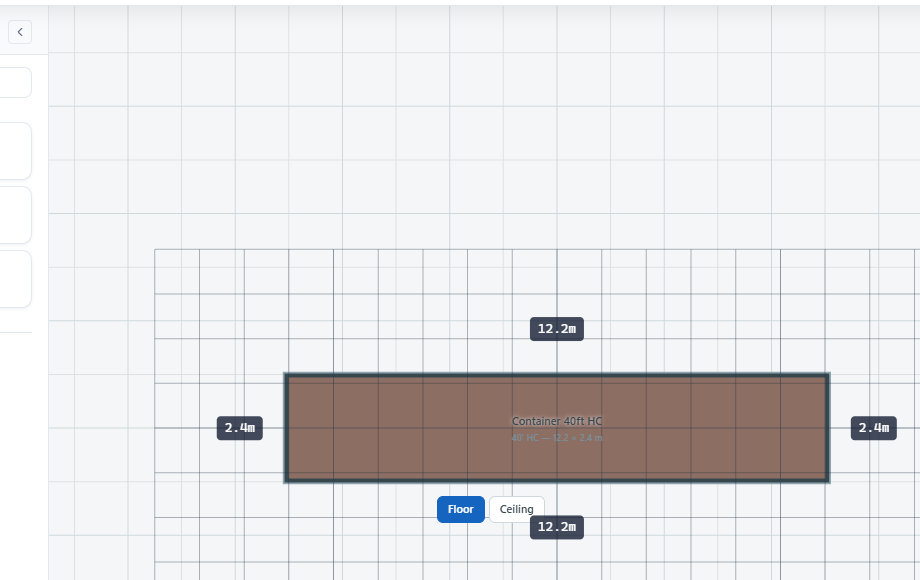
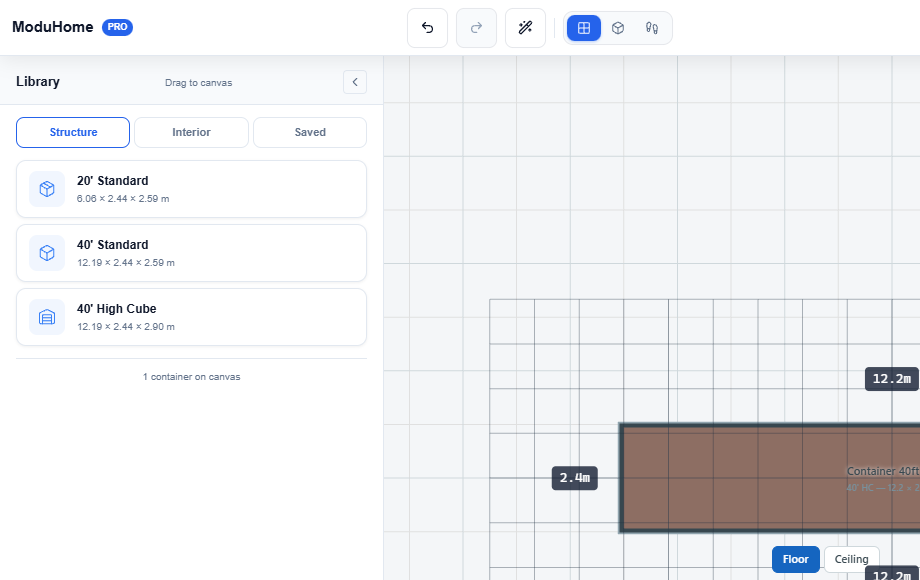
fix: frame shape geometry + door flush positioning
Frame poles/rails now render shape-aware geometry (Square, I-Beam, H-Beam,
Channel) instead of always using cylinders. Door panel widened to 92% of
wall opening with hinge flush at wall edge.

diff --git a/src/components/objects/ContainerSkin.tsx b/src/components/objects/ContainerSkin.tsx
@@ -69,7 +69,7 @@ import {
 import { getBayGroupForVoxel, getBayIndicesForVoxel } from "@/config/bayGroups";
 import { computePolePositions, computeRailPositions, type PolePosition, type RailPosition } from "@/utils/smartPoles";
 import { HIGHLIGHT_HEX_SELECT, HIGHLIGHT_HEX_HOVER, HIGHLIGHT_COLOR_SELECT, HIGHLIGHT_COLOR_HOVER } from "@/config/highlightColors";
-import { makePoleKey, resolveFrameProperty } from "@/config/frameMaterials";
+import { makePoleKey, resolveFrameProperty, type PoleShape, type RailShape } from "@/config/frameMaterials";
 import LightFixture from './LightFixture';
 import ElectricalPlate from './ElectricalPlate';
 import { formRegistry } from "@/config/formRegistry";
@@ -327,6 +327,23 @@ function getCyl(r: number, h: number): THREE.BufferGeometry {
   return _cyl.get(k)!;
 }
 
+function getPoleGeometry(r: number, h: number, shape: PoleShape): THREE.BufferGeometry {
+  switch (shape) {
+    case 'Square':   return getBox(r * 2, h, r * 2);
+    case 'I-Beam':   return getBox(r * 2.5, h, r * 1.2);
+    case 'H-Beam':   return getBox(r * 1.2, h, r * 2.5);
+    default:         return getCyl(r, h);
+  }
+}
+
+function getRailGeometry(r: number, length: number, shape: RailShape): THREE.BufferGeometry {
+  switch (shape) {
+    case 'Square':   return getBox(r * 2, length, r * 2);
+    case 'Channel':  return getBox(r * 2.5, length, r * 1.5);
+    default:         return getCyl(r, length);
+  }
+}
+
 const _edges = new Map<string, THREE.BufferGeometry>();
 function getEdges(w: number, h: number, d: number): THREE.BufferGeometry {
   const k = `${w.toFixed(3)}_${h.toFixed(3)}_${d.toFixed(3)}`;
@@ -576,8 +593,9 @@ function DoorFace({ w, h, d, isNS, isOpen, doorState, doorConfig, doorMat }: {
   doorConfig?: import('@/types/container').DoorConfig;
   doorMat?: THREE.MeshStandardMaterial;
 }) {
-  const doorW = w * 0.7;
-  const halfSpan = doorW / 2;
+  const doorW = w * 0.92;
+  const halfW = w / 2;
+  const halfDoor = doorW / 2;
 
   // Resolve config: doorConfig takes precedence, fallback to legacy doorState
   const cfg = doorConfig ?? {
@@ -590,11 +608,13 @@ function DoorFace({ w, h, d, isNS, isOpen, doorState, doorConfig, doorMat }: {
   const isSlide = cfg.type === 'slide' || cfg.state === 'open_slide';
   const shouldOpen = cfg.state === 'open_swing' || cfg.state === 'open_slide' || !!isOpen;
 
-  // Pivot: hingeEdge determines which edge the door pivots from
+  // Pivot at wall edge so the hinge is flush with the frame
   const hingeLeft = cfg.hingeEdge === 'left';
   const pivotSign = hingeLeft ? 1 : -1;
-  const pivotOffset = isNS ? halfSpan * pivotSign : 0;
-  const pivotOffsetZ = isNS ? 0 : halfSpan * pivotSign;
+  const pivotOffset = isNS ? halfW * pivotSign : 0;
+  const pivotOffsetZ = isNS ? 0 : halfW * pivotSign;
+  const panelX = isNS ? halfDoor * pivotSign : 0;
+  const panelZ = isNS ? 0 : halfDoor * pivotSign;
 
   // Swing angle: direction determines which way door opens
   const swingSign = hingeLeft ? 1 : -1;
@@ -624,21 +644,20 @@ function DoorFace({ w, h, d, isNS, isOpen, doorState, doorConfig, doorMat }: {
     <>
       {/* Frame — steel surround (fixed) */}
       <mesh geometry={isNS ? getBox(w, h, d) : getBox(d, h, w)} material={mFrame} castShadow raycast={nullRaycast} />
-      {/* Animated door panel — pivots from hinge edge (swing) or translates (slide) */}
+      {/* Animated door panel — pivots from wall edge (swing) or translates (slide) */}
       <group position={isSlide ? [0, 0, 0] : [-pivotOffset, 0, -pivotOffsetZ]}>
         <group ref={groupRef}>
           <mesh
             geometry={isNS ? getBox(doorW, h * 0.95, d * 0.95) : getBox(d * 0.95, h * 0.95, doorW)}
-            position={isSlide ? [0, 0, 0] : [pivotOffset, 0, pivotOffsetZ]}
+            position={isSlide ? [0, 0, 0] : [panelX, 0, panelZ]}
             material={doorMat ?? mSteel}
             castShadow raycast={nullRaycast}
           />
-          {/* Handle dot */}
           <mesh
             geometry={getCyl(0.015, 0.05)}
             position={isNS
-              ? [(isSlide ? 0 : pivotOffset) + doorW * 0.35 * -pivotSign, -h * 0.1, 0]
-              : [0, -h * 0.1, (isSlide ? 0 : pivotOffsetZ) + doorW * 0.35 * -pivotSign]}
+              ? [(isSlide ? 0 : panelX) + doorW * 0.35 * -pivotSign, -h * 0.1, 0]
+              : [0, -h * 0.1, (isSlide ? 0 : panelZ) + doorW * 0.35 * -pivotSign]}
             material={mFrame}
             castShadow raycast={nullRaycast}
           />
@@ -3456,11 +3475,12 @@ export default function ContainerSkin({
         if (poleOverride?.visible === false) return null;
         const isSelectedPole = selectedFrameElement?.containerId === container.id && selectedFrameElement.key === poleKey;
         const resolvedMatName = resolveFrameProperty(poleOverride, container.frameDefaults, 'pole', 'material');
+        const resolvedShapeName = resolveFrameProperty(poleOverride, container.frameDefaults, 'pole', 'shape') as PoleShape;
         const resolvedMaterial = getFrameThreeMaterial(resolvedMatName, currentTheme);
         const poleMat = isSelectedPole ? frameSelectMat : resolvedMaterial;
         const pillarMesh = (
           <mesh
-            geometry={getCyl(PILLAR_R, poleH)}
+            geometry={getPoleGeometry(PILLAR_R, poleH, resolvedShapeName)}
             material={poleMat}
             castShadow
             raycast={frameMode ? undefined : nullRaycast}
@@ -3501,11 +3521,13 @@ export default function ContainerSkin({
         if (railOverride?.visible === false) return null;
         const isSelectedRail = selectedFrameElement?.containerId === container.id && selectedFrameElement.key === rail.key;
         const resolvedRailMatName = resolveFrameProperty(railOverride, container.frameDefaults, 'rail', 'material');
+        const resolvedRailShapeName = resolveFrameProperty(railOverride, container.frameDefaults, 'rail', 'shape') as RailShape;
         const resolvedRailMaterial = getFrameThreeMaterial(resolvedRailMatName, currentTheme);
         const railMat = isSelectedRail ? frameSelectMat : resolvedRailMaterial;
         const length = Math.hypot(rail.px2 - rail.px1, rail.pz2 - rail.pz1);
         const midX = (rail.px1 + rail.px2) / 2;
         const midZ = (rail.pz1 + rail.pz2) / 2;
+        // Rail geometry is built along Y axis; rotation maps it to the correct direction
         const railRot: [number, number, number] = rail.orientation === 'h'
           ? [0, 0, Math.PI / 2]
           : [Math.PI / 2, 0, 0];
@@ -3514,7 +3536,7 @@ export default function ContainerSkin({
             key={`rail_${rail.key}`}
             position={[midX, vHeight, midZ]}
             rotation={railRot}
-            geometry={getCyl(FRAME_RAIL_R, length)}
+            geometry={getRailGeometry(FRAME_RAIL_R, length, resolvedRailShapeName)}
             material={railMat}
             castShadow
             raycast={frameMode ? undefined : nullRaycast}
